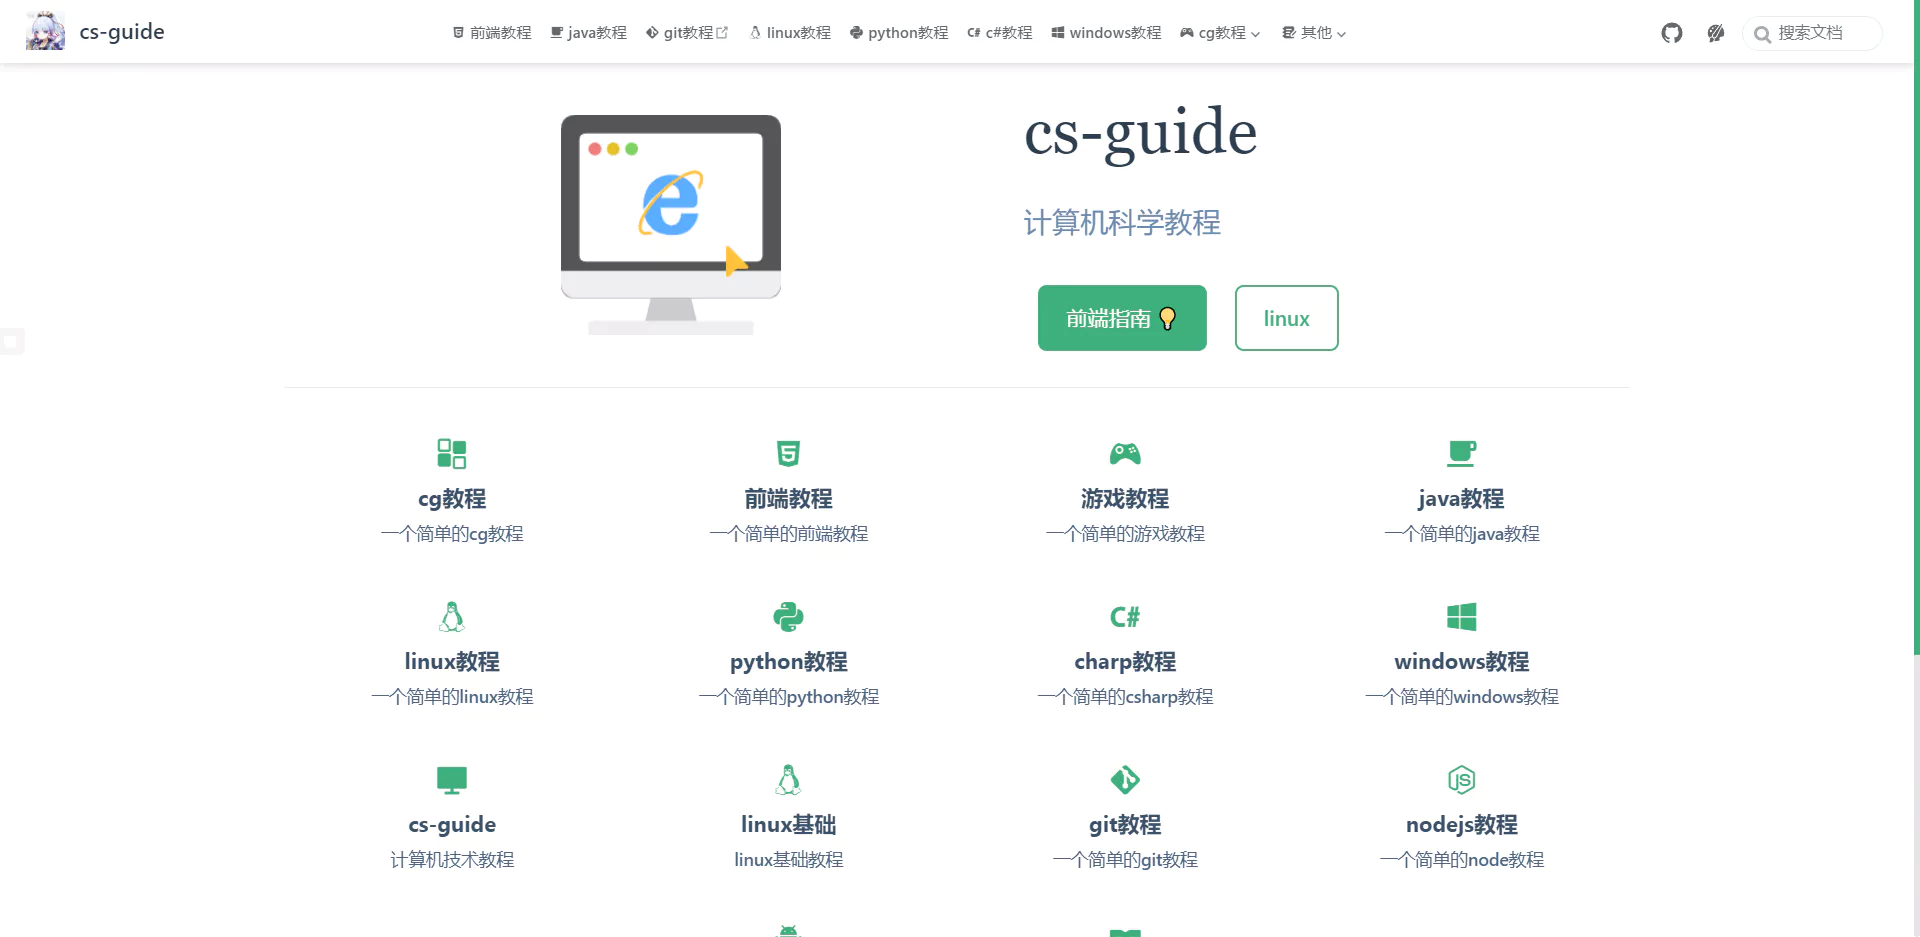
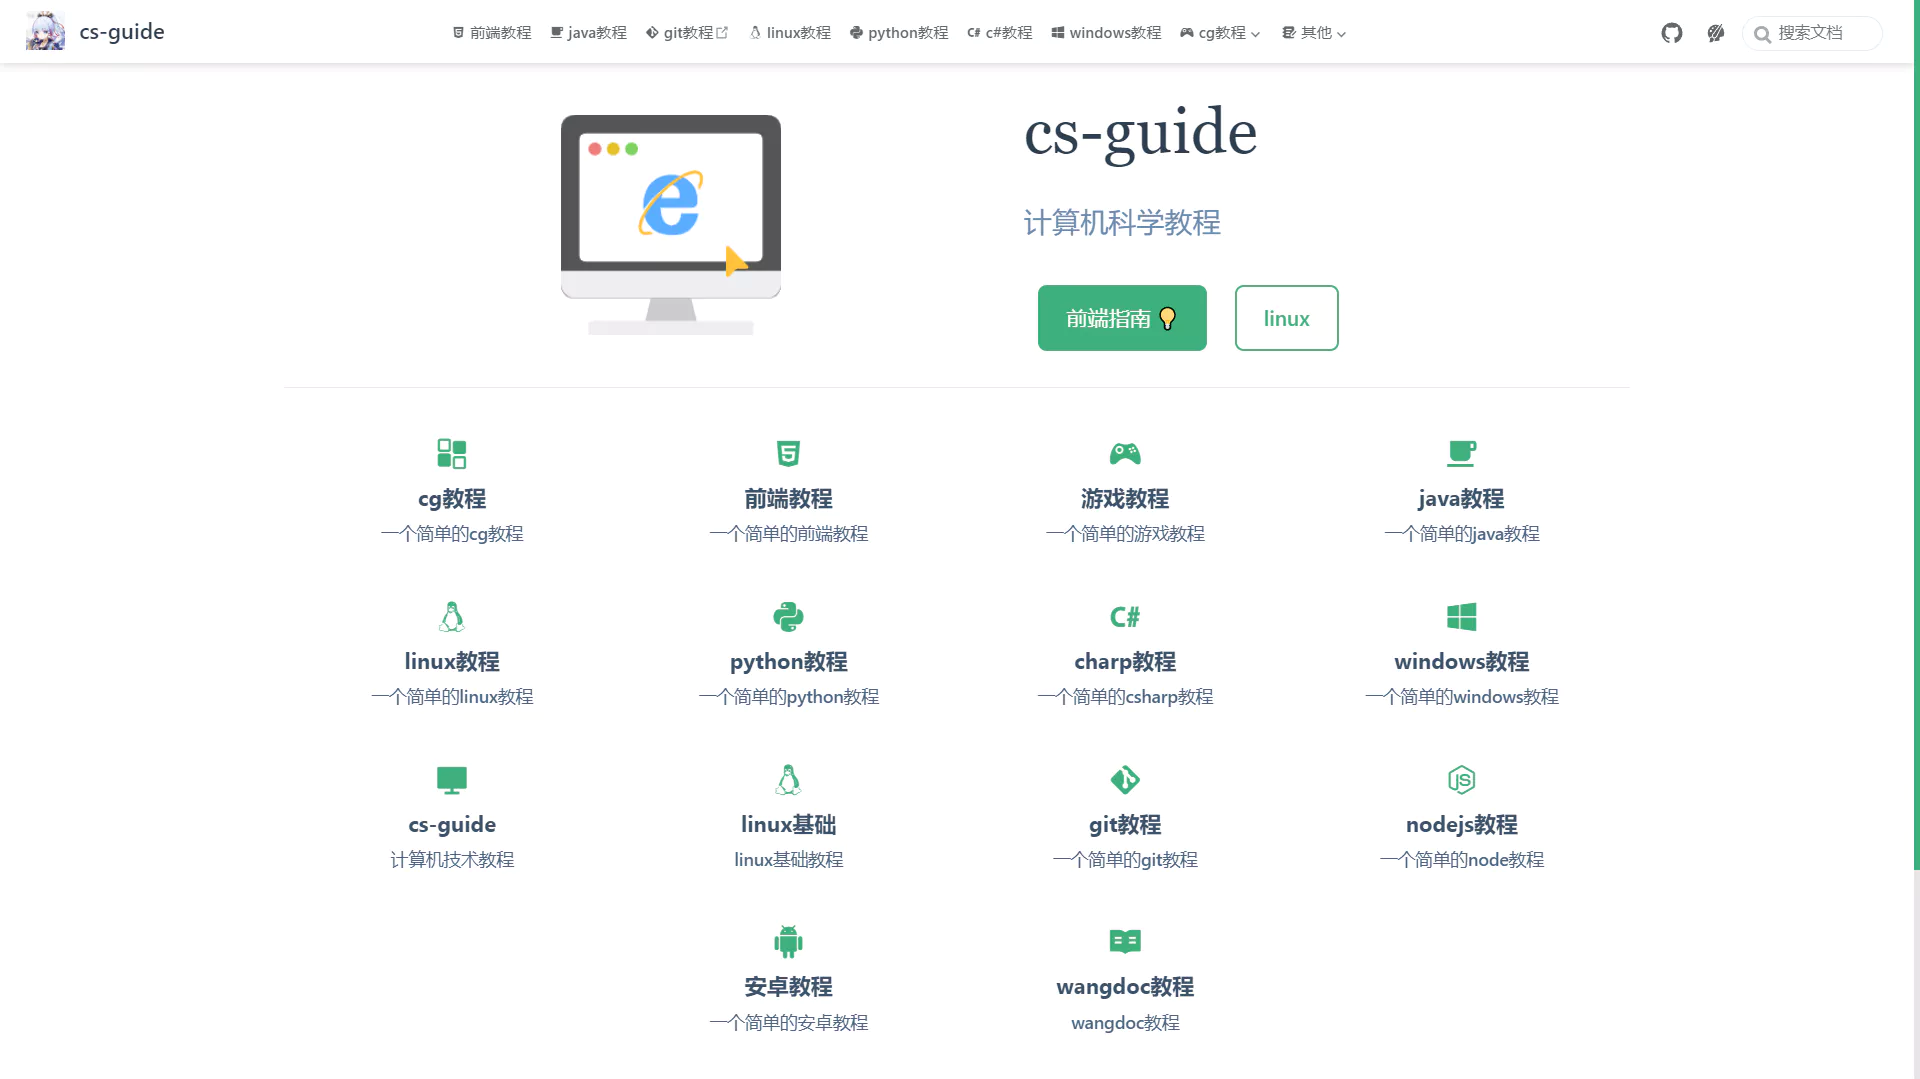
update readme

diff --git a/readme.md b/readme.md
@@ -12,4 +12,13 @@ yarn  docs:build
 
 ```
 
+## 其他相关
+
+- [计算机技术教程](https://yzqdev.github.io/cs-guide)
+- [linux基础](https://yzqbooks.github.io/linux-tutorial/ )
+- [git教程](https://yzqdev.github.io/git-tutor)
+- [nodejs教程](https://yzqdev.github.io/node-tutor)
+- [网道教程](https://yzqbooks.github.io/wangdoc)
+- [安卓教程](https://yzqdev.github.io/android-docs)
+
  ![预览](./res/home.webp)
